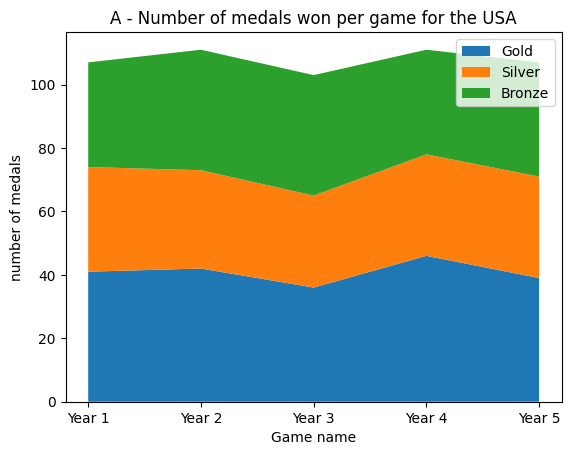
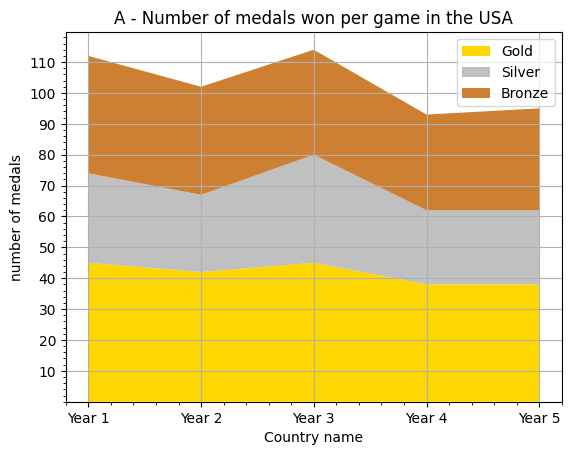
redrew every graph

diff --git a/code/graph_gen/createGraphs.py b/code/graph_gen/createGraphs.py
@@ -2,15 +2,222 @@ from graphGen import gen_line, gen_area
 
 def generate_graphs():
     country_list = ["USA", "Great Britain", "Australia", "Japan", "Germany"]
+    country_list_short = ["Great Britain", "Australia", "Japan", "Germany"]
+    years_list = ["Year 1", "Year 2", "Year 3", "Year 4", "Year 5"]
 
-    # x_labels, gold_medals, silver_medals, bronze_medals, graph_label, graph_numb
+    # x_labels, gold_medals, silver_medals, bronze_medals, graph_label, trial, graph_numb
+    # Question 1 and 2
     gen_line(
         country_list,
         [45, 22, 8, 7, 16],
         [36, 16, 12, 8, 17],
         [34, 17, 10, 13, 14],
         "A - ",
+        "max",
         1
     )
+    gen_line(
+        country_list,
+        [43, 10, 5, 4, 11],
+        [26, 8, 11, 8, 7],
+        [32, 11, 10, 13, 8],
+        "B - ",
+        "max",
+        2
+    )
+
+    # Question 3 and 4
+    gen_area(
+        country_list,
+        [43, 18, 17, 16, 18],
+        [22, 15, 14, 12, 19],
+        [38, 10, 12, 18, 8],
+        "A - ",
+        "max",
+        1
+    )
+    gen_area(
+        country_list,
+        [38, 16, 8, 7, 16],
+        [27, 23, 13, 8, 11],
+        [30, 18, 15, 12, 14],
+        "B - ",
+        "max",
+        2
+    )
+
+    # Question 5 and 6
+    gen_line(
+        country_list,
+        [42, 21, 8, 11, 11],
+        [23, 16, 14, 14, 11],
+        [32, 18, 15, 15, 14],
+        "A - ",
+        "max",
+        3
+    )
+    gen_line(
+        country_list,
+        [39, 8, 3, 7, 9],
+        [32, 4, 12, 6, 14],
+        [32, 11, 6, 12, 8],
+        "B - ",
+        "max",
+        4
+    )
+
+    # Question 7 and 8
+    gen_area(
+        country_list,
+        [45, 20, 8, 7, 13],
+        [31, 23, 14, 9, 15],
+        [30, 12, 10, 10, 14],
+        "A - ",
+        "max",
+        3
+    )
+    gen_area(
+        country_list,
+        [37, 16, 14, 7, 15],
+        [22, 20, 15, 13, 13],
+        [37, 13, 16, 19, 13],
+        "B - ",
+        "max",
+        4
+    )
+
+    # Question 9 and 10
+    gen_line(
+        years_list,
+        [38, 48, 45, 46, 43],
+        [33, 24, 34, 22, 30],
+        [37, 36, 31, 36, 37],
+        "B - ",
+        "years",
+        2
+    )
+    gen_line(
+        years_list,
+        [32, 48, 45, 46, 43],
+        [36, 24, 34, 22, 30],
+        [44, 36, 31, 36, 37],
+        "A - ",
+        "years",
+        1
+    )
+
+    # Question 11 and 12
+    gen_area(
+        years_list,
+        [45, 42, 45, 38, 38],
+        [29, 25, 35, 24, 24],
+        [38, 35, 34, 31, 33],
+        "A - ",
+        "years",
+        1
+    )
+    gen_area(
+        years_list,
+        [46, 36, 41, 41, 37],
+        [29, 22, 30, 24, 23],
+        [37, 35, 33, 37, 38],
+        "B - ",
+        "years",
+        2
+    )
+
+    # Question 13
+    gen_line(
+        years_list,
+        [32, 38, 35, 36, 47],
+        [31, 39, 32, 36, 37],
+        [33, 24, 34, 22, 30],
+        "A - ",
+        "years",
+        3
+    )
+    gen_line(
+        years_list,
+        [44, 36, 31, 36, 37],
+        [32, 38, 35, 46, 43],
+        [36, 24, 34, 22, 30],
+        "B - ",
+        "years",
+        4
+    )
+
+    # Question 14
+    gen_area(
+        years_list,
+        [32, 38, 35, 36, 47],
+        [31, 39, 32, 36, 37],
+        [33, 24, 34, 22, 30],
+        "A - ",
+        "years",
+        3
+    )
+    gen_area(
+        years_list,
+        [44, 36, 31, 36, 37],
+        [32, 38, 35, 46, 43],
+        [36, 24, 34, 22, 30],
+        "B - ",
+        "years",
+        4
+    )
+
+    # Question 15 and 16
+    gen_line(
+        country_list_short,
+        [16, 12, 7, 13],
+        [14, 15, 11, 14],
+        [12, 15, 13, 13],
+        "",
+        "country",
+        1
+    )
+    gen_line(
+        country_list_short,
+        [14, 8, 7, 13],
+        [17, 8, 8, 5],
+        [9, 10, 9, 10],
+        "",
+        "country",
+        2
+    )
+
+    # Question 17 and 18
+    gen_area(
+        country_list_short,
+        [16, 12, 7, 13],
+        [14, 15, 11, 14],
+        [12, 15, 13, 13],
+        "",
+        "country",
+        1
+    )
+    gen_area(
+        country_list_short,
+        [18, 19, 16, 20],
+        [12, 22, 14, 19],
+        [10, 13, 18, 8],
+        "",
+        "country",
+        2
+    )
+
+    # NOTE: Question 19 and 20 will compare pre-existing graphs
+
+
+# gen_line(
+#         country_list,
+#         country_list,
+#         [, , , , ],
+#         [, , , , ],
+#         [, , , , ],
+#         "B - ",
+#         "max",
+        
+#     )
 
 generate_graphs()

diff --git a/code/main.py b/code/main.py
@@ -50,27 +50,32 @@ question12 = Question("In Graph B, which year shows the least amount of total me
                     "assets/area-years-trial-1.png",
                     "assets/area-years-trial-2.png", "Year 4", ["Year 1", "Year 2", "Year 3", "Year 4", "Year 5"], "area")
 
-# line max trial 5 and 6
+# line years trial 3 and 4
 question13 = Question("In Graph A, which country got the most medals?",
-                    "assets/line-max-trial-5.png",
-                    "assets/line-max-trial-6.png", "GB", ["GB", "AUS", "JP", "GER", ""], "line")
+                    "assets/line-years-trial-3.png",
+                    "assets/line-years-trial-4.png", "GB", ["GB", "AUS", "JP", "GER", ""], "line")
+# area years trial 3 and 4
 question14 = Question("In Graph A, which country got the 2nd highest amount of medals?",
-                    "assets/line-max-trial-5.png",
-                    "assets/line-max-trial-6.png", "GER", ["GB", "AUS", "JP", "GER", ""], "line")
+                    "assets/area-years-trial-3.png",
+                    "assets/area-years-trial-4.png", "GER", ["GB", "AUS", "JP", "GER", ""], "line")
+
+# line country trial 1 and 2
 question15 = Question("In Graph B, which country got the most medals?",
-                    "assets/line-max-trial-5.png",
-                    "assets/line-max-trial-6.png", "GB", ["GB", "AUS", "JP", "GER", ""], "line")
+                    "assets/line-country-trial-1.png",
+                    "assets/line-country-trial-2.png", "GB", ["GB", "AUS", "JP", "GER", ""], "line")
 question16 = Question("In Graph B, which country got the 2nd highest amount of medals?",
                     "assets/line-max-trial-5.png",
                     "assets/line-max-trial-6.png", "AUS", ["GB", "AUS", "JP", "GER", ""], "line")
 
-# area max trial 5 and 6
+# area country trial 1 and 2
 question17 = Question("In Graph A, which country got the most medals?",
                     "assets/area-max-trial-5.png",
                     "assets/area-max-trial-6.png", "GER", ["GB", "AUS", "JP", "GER", ""], "area")
 question18 = Question("In Graph A, which country got the 2nd highest amount of medals?",
                     "assets/area-max-trial-5.png",
                     "assets/area-max-trial-6.png", "AUS", ["GB", "AUS", "JP", "GER", ""], "area")
+
+# Comparison trials
 question19 = Question("In Graph B, which country got the most medals?",
                     "assets/area-max-trial-5.png",
                     "assets/area-max-trial-6.png", "GER", ["GB", "AUS", "JP", "GER", ""], "area")

diff --git a/code/graph_gen/graphGen.py b/code/graph_gen/graphGen.py
@@ -1,6 +1,7 @@
 import matplotlib.pyplot as plt
+from matplotlib.ticker import MultipleLocator
 
-def gen_line(x_labels, gold_medals, silver_medals, bronze_medals, graph_label, graph_numb):
+def gen_line(x_labels, gold_medals, silver_medals, bronze_medals, graph_label, trial, graph_numb):
     """Function to generate line graphs"""
     plt.plot(x_labels, gold_medals, label="Gold", color="#FFD700")
     plt.plot(x_labels, silver_medals, label="Silver", color="#C0C0C0")
@@ -8,23 +9,44 @@ def gen_line(x_labels, gold_medals, silver_medals, bronze_medals, graph_label, g
 
     plt.xlabel("Country name")
     plt.ylabel("number of medals")
+
+    if trial == "years":
+        plt.yticks([5, 10, 15, 20, 25, 30, 35, 40, 45, 50])
+
+    elif trial == "country":
+        plt.yticks([5, 10, 15, 20])
+
+    plt.minorticks_on()
     plt.legend()
     plt.grid()
-    plt.title(f"{graph_label}Number of medals won")
+    if trial == "years":
+        plt.title(f"{graph_label}Number of medals won per game in the USA")
+    else:
+        plt.title(f"{graph_label}Number of medals won")
 
-    plt.savefig(f"assets/line-max-trial-{graph_numb}.png", bbox_inches="tight")
+    plt.savefig(f"assets/line-{trial}-trial-{graph_numb}.png", bbox_inches="tight")
 
-def gen_area(x_labels, gold_medals, silver_medals, bronze_medals, graph_label, graph_numb):
+    plt.clf()
+
+def gen_area(x_labels, gold_medals, silver_medals, bronze_medals, graph_label, trial, graph_numb):
     """Function to generate area graphs"""
-    plt.stackplot(x_labels, gold_medals, silver_medals, bronze_medals, labels=["Gold", "Silver", "Bronze"])
-    
+    plt.stackplot(x_labels, gold_medals, silver_medals, bronze_medals,
+                  labels=["Gold", "Silver", "Bronze"], colors=["#FFD700", "#C0C0C0", "#CD7F32"])
+
     plt.xlabel("Country name")
     plt.ylabel("number of medals")
-    
-    plt.yticks([10, 20, 30, 40, 50, 60, 70, 80, 90, 100, 110, 120])
-    
+
+    plt.yticks([10, 20, 30, 40, 50, 60, 70, 80, 90, 100, 110])
+
+    plt.minorticks_on()
+
     plt.legend()
     plt.grid()
-    plt.title("A - Number of medals won (random data generated)")
-    
-    plt.savefig("assets/area-max-trial-3.png", bbox_inches="tight")
+    if trial == "years":
+        plt.title(f"{graph_label}Number of medals won per game in the USA")
+    else:
+        plt.title(f"{graph_label}Number of medals won")
+
+    plt.savefig(f"assets/area-{trial}-trial-{graph_numb}.png", bbox_inches="tight")
+
+    plt.clf()

diff --git a/code/graph_gen/dataGen.py b/code/graph_gen/dataGen.py
@@ -38,11 +38,18 @@ def get_bronze_medal_data():
 
 ## Obvious lower numbers
 def get_lower_gold_data():
-    return [r.randint(36, 48) - 5, r.randint(13, 22) - 5, r.randint(8, 14) - 5, r.randint(7, 12) - 5, r.randint(11, 17) - 5]
+    return [r.randint(13, 22) - 5, r.randint(8, 14) - 5, r.randint(7, 12) - 5, r.randint(11, 17) - 5]
 
 def get_lower_silver_data():
-    return [r.randint(22, 37) - 5, r.randint(13, 23) - 10, r.randint(11, 15), r.randint(8, 14) - 5, r.randint(10, 20) - 5]
+    return [r.randint(13, 23) - 10, r.randint(11, 15), r.randint(8, 14) - 5, r.randint(10, 20) - 5]
 
 def get_lower_bronze_data():
-    return [r.randint(30, 38) - 5, r.randint(12, 19) - 5, r.randint(10, 17) - 5, r.randint(8, 21) - 5, r.randint(13, 15) - 5]    
+    return [r.randint(12, 19) - 5, r.randint(10, 17) - 5, r.randint(8, 21) - 5, r.randint(13, 15) - 5]    
 
+print(get_5_american_years())
+print(get_5_american_years())
+print(get_5_american_years())
+
+# print(get_gold_medal_data())#
+# print(get_silver_medal_data())
+# print(get_bronze_medal_data())
